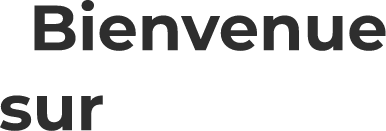
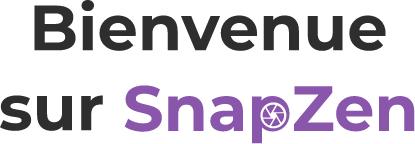
Update repository

diff --git a/SnapZen/pages/access/access.component.js b/SnapZen/pages/access/access.component.js
@@ -8,7 +8,7 @@ import images from "../../assets/images.registery";
 import {Image} from "react-native";
 import {useDispatch, useSelector} from "react-redux";
 import {API_URI, fetchConnectionId} from "../../shared/services/api.service";
-import {fetchConnectionError, fetchConnectionSuccess} from "../../shared/store/action/user.action";
+import {fetchConnection, fetchConnectionError, fetchConnectionSuccess} from "../../shared/store/action/user.action";
 import {useNavigation} from "@react-navigation/native";
 import * as apiService from '../../shared/services/api.service'
 
@@ -18,25 +18,14 @@ const AccessScreen = ({route, navigation}) => {
     return type === UserTypeEnum.AGENT ? AgentRender((newPin) => pinIsSet(newPin), pinCode) : UserRender((newPin) => pinIsSet(newPin), pinCode)
 }
 
-const AgentRender = (settingNewPin, pinCode) => {
+const AgentRender = (settingNewPin) => {
     const dispatch = useDispatch()
     const navigation = useNavigation()
+    const user = useSelector(state => state.user)
     useEffect(() => {
-        fetch(API_URI + `connection/createSessionId`, {
-            method: 'GET',
-            headers: {
-                Accept: 'application/json',
-                'Content-Type': 'application/json'
-            }
-        }).then(response => response.json())
-            .then(async (res) => {
-                if (res.error) {
-                    throw(res.error)
-                }
-                settingNewPin(res.sessionId)
-                dispatch(fetchConnectionSuccess(res.sessionId));
-            }).catch(error => dispatch(fetchConnectionError(error)))
-    }, [])
+        dispatch(apiService.fetchConnectionId())
+        settingNewPin(user.connectionId)
+    },[])
     return (<View style={{flex: 1}}>
         <View style={{flex: 1, marginTop: 72}}>
             <View style={{paddingHorizontal: 56}}>
@@ -54,7 +43,7 @@ const AgentRender = (settingNewPin, pinCode) => {
                 <Text>Accéder à l'application</Text>
             </Button>
             <View style={{marginTop: 48}}>
-                <RoundedContainer pin={pinCode}/>
+                <RoundedContainer pin={user.connectionId}/>
             </View>
         </View>
         <View style={{flex: 1, marginTop: 72}}>
@@ -68,7 +57,6 @@ const UserRender = (setPinCode, pinCode) => {
     const user = useSelector(state => state.user);
     const dispatch = useDispatch();
     const apiCall = useCallback(() => {
-        console.log(pinCode, user.name, user.uuid)
         dispatch(apiService.postConnectionId(pinCode, user.name, user.uuid))
     })
     return (<View style={{flex: 1}}>
@@ -88,10 +76,10 @@ const UserRender = (setPinCode, pinCode) => {
                 <Image source={images.MAIL}/>
             </View>
             <View style={{paddingHorizontal: 24, marginTop: 40}}>
-                <Button style={buttonStyle(commonStyle.purpleColor)} onPress={() => {
+                <Button style={[pinCode.length >= 2 ? buttonStyle(commonStyle.purpleColor): buttonStyle(commonStyle.lightPurpleColor)]} onPress={() => {
                     apiCall()
                     navigation.navigate('Sharing', {user: UserTypeEnum.USER})
-                }}>
+                }} disabled={pinCode.length === 0}>
                     <Text>Accéder à l'application</Text>
                 </Button>
             </View>

diff --git a/SnapZen/shared/component/web-rtc/rtc-test.component.js b/SnapZen/shared/component/web-rtc/rtc-test.component.js
@@ -6,7 +6,9 @@ import { RTCPeerConnection, RTCView, mediaDevices, RTCIceCandidate, RTCSessionDe
 const configuration = {
     iceServers: [
         {
-            urls: ['stun:stun1.l.google.com:19302', 'stun:stun2.l.google.com:19302'],
+            url: 'stun:turboreactcore.westeurope.cloudapp.azure.com:3478',
+            username: 'batman',
+            credentials: 'foobarPwC'
         },
     ],
     iceCandidatePoolSize: 10,
@@ -21,9 +23,7 @@ export function Rtctest({ setScreen, screens }) {
         }
         setLocalStream();
         setRemoteStream();
-        setCachedLocalPC();
-        // cleanup
-        setScreen(screens.ROOM);
+        setCachedLocalPC()
     }
 
     const [localStream, setLocalStream] = useState();
@@ -61,7 +61,18 @@ export function Rtctest({ setScreen, screens }) {
     };
 
     const startCall = async id => {
+
         const localPC = new RTCPeerConnection(configuration);
+        console.log(id)
+        const dataChannel = localPC.createDataChannel(id)
+        const offer = await localPC.createOffer()
+        await localPC.setLocalDescription(offer)
+        dataChannel.send(offer)
+
+        dataChannel.onmessage = message => {
+            console.log(message)
+        }
+
         localPC.addStream(localStream);
 
         localPC.createOffer().then(desc => localPC.setLocalDescription(desc).then(() => {
@@ -73,9 +84,14 @@ export function Rtctest({ setScreen, screens }) {
                 console.log('Got final candidate!');
                 return;
             }
-            localPC.addIceCandidate(new RTCIceCandidate(e.candidate))
-            console.log(e.candidate.toJSON())
+            // console.log(e.candidate.toJSON())
         };
+
+        localPC.onconnectionstatechange = e => {
+            if(e){
+                console.log(`${e.iceConnectionState} STATE`)
+            }
+        }
 
         localPC.onaddstream = e => {
             if (e.stream && remoteStream !== e.stream) {
@@ -83,23 +99,6 @@ export function Rtctest({ setScreen, screens }) {
                 setRemoteStream(e.stream);
             }
         };
-
-        // roomRef.onSnapshot(async snapshot => {
-        //     const data = snapshot.data();
-        //     if (!localPC.currentRemoteDescription && data.answer) {
-        //         const rtcSessionDescription = new RTCSessionDescription(data.answer);
-        //         await localPC.setRemoteDescription(rtcSessionDescription);
-        //     }
-        // });
-        //
-        // roomRef.collection('calleeCandidates').onSnapshot(snapshot => {
-        //     snapshot.docChanges().forEach(async change => {
-        //         if (change.type === 'added') {
-        //             let data = change.doc.data();
-        //             await localPC.addIceCandidate(new RTCIceCandidate(data));
-        //         }
-        //     });
-        // });
 
         setCachedLocalPC(localPC);
     };

diff --git a/SnapZen/shared/utility/mediaservice.js b/SnapZen/shared/utility/mediaservice.js
@@ -1,0 +1,53 @@
+import {mediaDevices} from 'react-native-webrtc';
+
+class MediaDevice {
+    stream = null;
+    videoSourceId = 0;
+    setStream = null;
+    isFront = true;
+
+    constructor(isFront, minHeight, minWidth, minFrameRate) {
+        this.minHeight = minHeight;
+        this.minWidth = minWidth;
+        this.minFrameRate = minFrameRate;
+        this.isFront = isFront;
+
+        mediaDevices.enumerateDevices().then(sourceInfo => {
+            for (let i = 0; i < sourceInfo.length; i++) {
+                if (
+                    sourceInfo.kind === 'videoinput' &&
+                    sourceInfo.facing === (this.isFront ? 'front' : 'environment')
+                ) {
+                    this.videoSourceId = sourceInfo.deviceId;
+                }
+            }
+        });
+    }
+
+    switchCamera = () => {
+        this.stream.getVideoTracks().forEach(track => {
+            track._switchCamera();
+        });
+    };
+
+    async getStream() {
+        return await mediaDevices
+            .getUserMedia({
+                audio: true,
+                video: {
+                    mandatory: {
+                        width: {ideal: this.minWidth},
+                        height: {ideal: this.minHeight},
+                        frameRate: this.minFrameRate,
+                    },
+                    facingMode: this.isFront ? 'user' : 'environment',
+                    optional: this.videoSourceId ? [{sourceId: this.videoSourceId}] : [],
+                },
+            })
+            .then(stream => {
+                return (this.stream = stream);
+            });
+    }
+}
+
+export default MediaDevice;

diff --git a/SnapZen/pages/screenshare/screenshare.component.js b/SnapZen/pages/screenshare/screenshare.component.js
@@ -11,9 +11,7 @@ import {onUpdateImage} from "../../shared/store/action/snap.action";
 import RNFS from 'react-native-fs'
 import Rtc from "../../shared/component/web-rtc/web-rtc.component";
 import {useNavigation, useRoute} from "@react-navigation/native";
-import {UserTypeEnum} from "../../shared/enum/type-user.enum";
-import { Rtctest } from "../../shared/component/web-rtc/rtc-test.component";
-
+import {Rtctest} from "../../shared/component/web-rtc/rtc-test.component";
 const ScreenShare = () => {
     const width = Dimensions.get('window').width
     const {params} = useRoute()
@@ -29,7 +27,7 @@ const ScreenShare = () => {
                 dispatch(onUpdateImage({uri: urlString}))
             })
         }
-    }, [isPress]);
+    }, [isPress, locationX, locationY]);
 
     return (<View style={{flex: 1}}>
         <StatusBar barStyle="light-content"/>
@@ -53,15 +51,15 @@ const ScreenShare = () => {
         {/*        </TouchableOpacity>*/}
         {/*    </ViewShot>*/}
         {/*</View>*/}
-        <View style={{top: -48}}>
+        {/*<View style={{top: -48}}>*/}
             {/*<PicturePicker isPress={isPress}/>*/}
-            <View style={{marginTop: 350}}>
-                <ButtonZen title="Finaliser mon dossier" color={commonStyle.purpleColor}/>
-            </View>
+            {/*<View style={{marginTop: 350}}>*/}
+            {/*    <ButtonZen title="Finaliser mon dossier" color={commonStyle.purpleColor}/>*/}
             {/*</View>*/}
-        </View>
+            {/*</View>*/}
+        {/*</View>*/}
         <View style={{flex: 1}}>
-            <Rtctest/>
+            <Rtctest />
         </View>
     </View>)
 }

diff --git a/SnapZen/pages/home/home.component.js b/SnapZen/pages/home/home.component.js
@@ -24,17 +24,16 @@ class HomeScreen extends React.Component {
                 <Image source={images.LOGO} style={{height: 300, width: 300, alignSelf: 'center'}}
                        resizeMode="contain"/>
                 <View style={{paddingHorizontal: 100, marginTop: 72}}>
-                    <Text style={{fontSize: 32, alignSelf: 'center', textAlign: 'center', fontWeight: 'bold'}}>Bienvenue
-                        sur SnapZen</Text>
+                    <Image source={images.WELCOME} />
                 </View>
-                <View style={{paddingHorizontal: 52, marginTop: 32}}>
+                <View style={{paddingHorizontal: 48, marginTop: 32}}>
                     <Text
                         style={{fontSize: 16, lineHeight: 20, alignSelf: 'center', textAlign: 'center'}}>
                         Déclarer un sinistre sans stress grâce à votre conseiller</Text>
                 </View>
             </View>
             <View style={{flex: 1}}>
-                <Text style={{alignSelf: "center", marginBottom: 16, color: commonStyle.purpleColor, fontSize: 12}}>Pour
+                <Text style={{alignSelf: "center", marginBottom: 24, color: commonStyle.purpleColor, fontSize: 12}}>Pour
                     commencer,
                     êtes vous ?</Text>
                 <View style={{paddingHorizontal: 24, marginBottom: 16}}>

diff --git a/SnapZen/shared/component/web-rtc/web-rtc.component.js b/SnapZen/shared/component/web-rtc/web-rtc.component.js
@@ -12,6 +12,11 @@ export const Rtc = (user) => {
 
     const [isMuted, setIsMuted] = React.useState(false);
 
+    useEffect(() => {
+        startLocalStream()
+        startCall()
+    },[])
+
     const startLocalStream = async (userType) => {
         // isFront will determine if the initial camera should face user or environment
         const isFront = false;
@@ -38,9 +43,14 @@ export const Rtc = (user) => {
 
     const startCall = async () => {
         // You'll most likely need to use a STUN server at least. Look into TURN and decide if that's necessary for your project
-        const configuration = {iceServers: [{url: 'stun.sipnet.net:3478'}]};
+        const configuration = {iceServers: [{url: 'stun:turboreactcore.westeurope.cloudapp.azure.com:3478'}]};
+        mediaDevices.enumerateDevices().then(devices => {
+            console.log(devices)
+        })
         const localPC = new RTCPeerConnection(configuration);
         const remotePC = new RTCPeerConnection(configuration);
+
+
 
         // could also use "addEventListener" for these callbacks, but you'd need to handle removing them as well
         localPC.onicecandidate = e => {

diff --git a/SnapZen/shared/services/api.service.js b/SnapZen/shared/services/api.service.js
@@ -49,18 +49,21 @@ export const fetchConnectionId = () => {
                 if (res.error) {
                     throw(res.error)
                 }
-                dispatch(fetchConnectionSuccess(res.id));
+                console.log(res)
+                dispatch(fetchConnectionSuccess(res.sessionId));
             }).catch(error => dispatch(fetchConnectionError(error)))
     }
 }
 
 export const postConnectionId = (pinCode, uuid, name) => {
-    const body = `{\"id\":\"ba4f77ce-bc33-4f83-8a2c-1413aa28c47e\",\"displayName\":\"jean\"}`
     return dispatch => {
         dispatch(postConnection());
         fetch(`${API_URI}connection/inputSessionId?sessionId=${pinCode.toString()}`, {
             method: 'POST',
-            body,
+            body: {
+              id: uuid,
+              displayName: name
+            },
             headers: {
                 Accept: 'application/json',
                 'Content-Type': 'application/json'

diff --git a/SnapZen/assets/images.registery.js b/SnapZen/assets/images.registery.js
@@ -1,7 +1,8 @@
 const images = {
     LOGO: require('./logo.png'),
     WELCOME: require('./welcome.png'),
-    MAIL: require('./mail.png')
+    MAIL: require('./mail.png'),
+    HAND_ICON: require('./hand_icon.png')
 }
 
 export default images

diff --git a/SnapZen/shared/styles/common.style.js b/SnapZen/shared/styles/common.style.js
@@ -2,6 +2,7 @@ import {StyleSheet} from "react-native";
 
 export const commonStyle = {
     purpleColor: '#8a56ac',
+    lightPurpleColor: '#b99acd',
     softGreenColor: '#89c5cc',
     softBlueColor: '#ECF9FB'
 }

diff --git a/SnapZen/shared/store/action/user.action.js b/SnapZen/shared/store/action/user.action.js
@@ -23,7 +23,7 @@ export const fetchUserUuidError = (error) => {
 }
 
 export const fetchConnection = () => {
-
+ return {type: FETCH_CONNECTION }
 }
 
 export const fetchConnectionSuccess = (connectionId) => {
